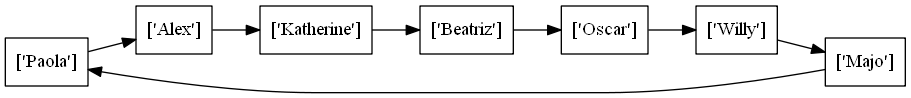
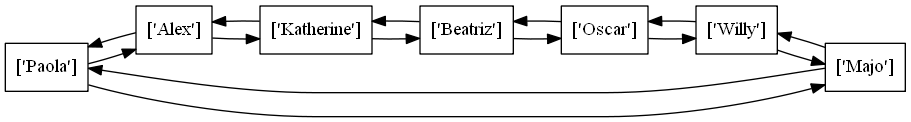
Fifth Commit | Option 1 v1.0 | Option 3 v.1.5 | option 4 v.1.5 | option 5 vFinal

diff --git a/structures.py b/structures.py
@@ -48,11 +48,13 @@ class userSeletionList:
                 f.write('node{} [label=\" {} \"];\n'.format(count, str(temp.playerName)))
                 count += 1
                 f.write('node{} -> node{};\n'.format(count - 1, count))
+                f.write('node{} -> node{};\n'.format(count, count - 1))
                 temp = temp.next
 
             # print(temp.id)
             f.write('node{} [label=" {} \"];\n'.format(count, str(temp.playerName)))
             f.write('node{} -> node{};\n'.format(count, 0))
+            f.write('node{} -> node{};\n'.format(0, count))
             f.write('}')
             f.close()
             os.system('dot UsersReport.dot -Tpng -o UsersReport.png')
